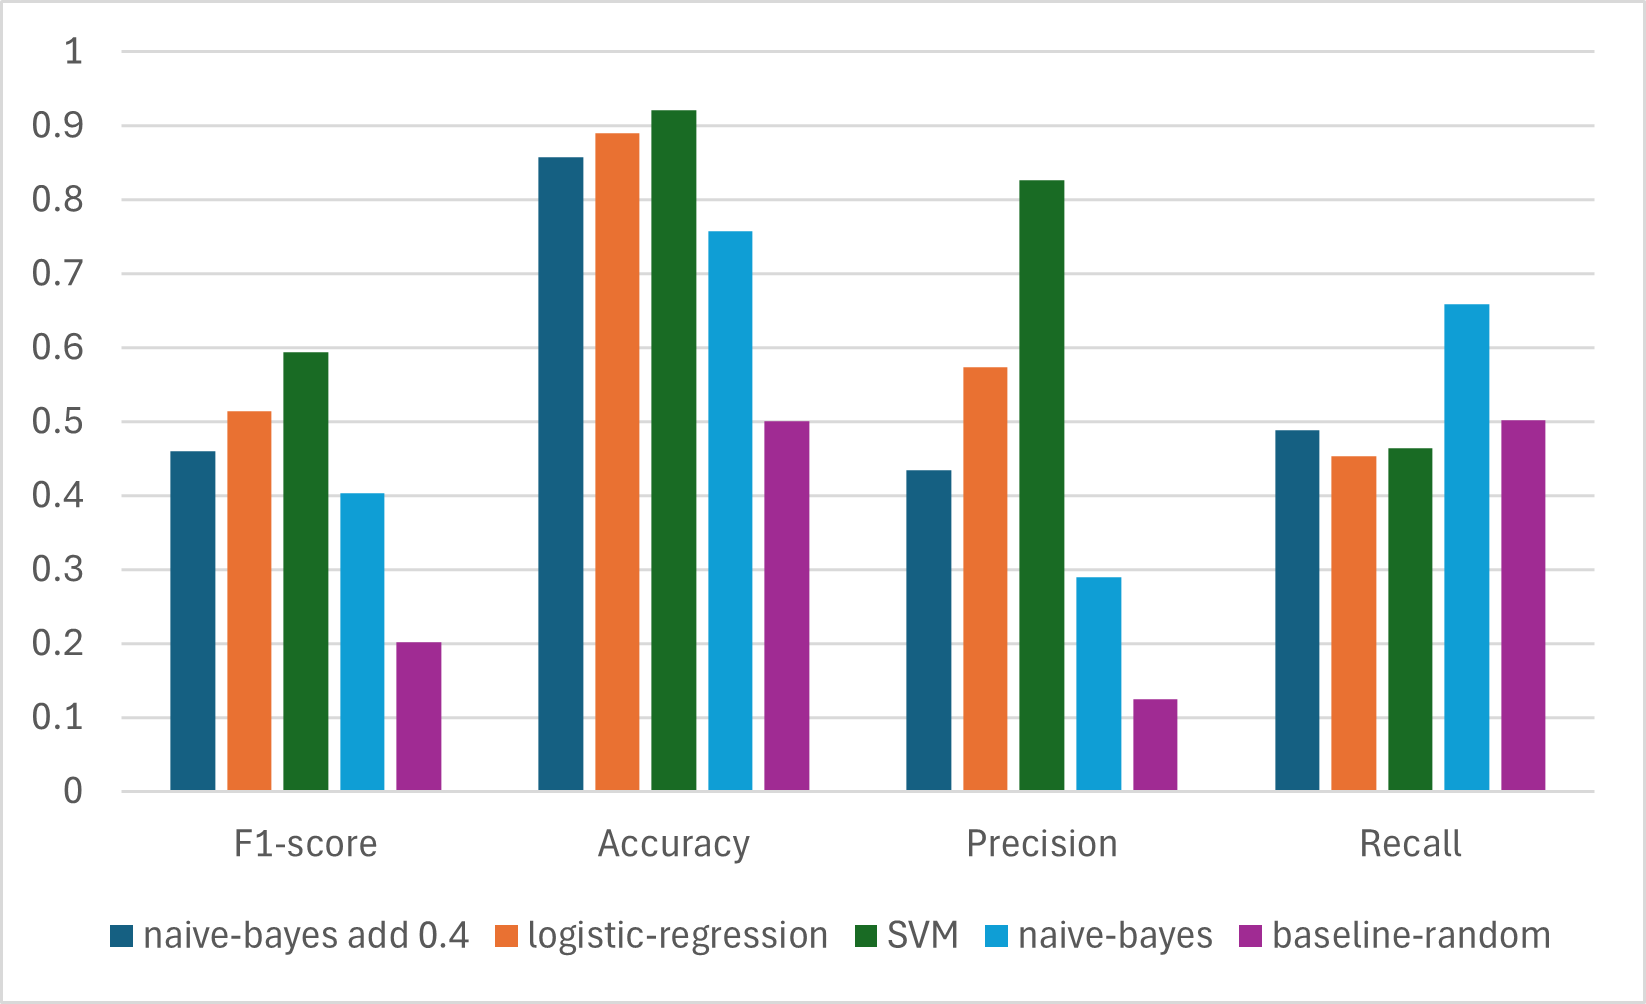
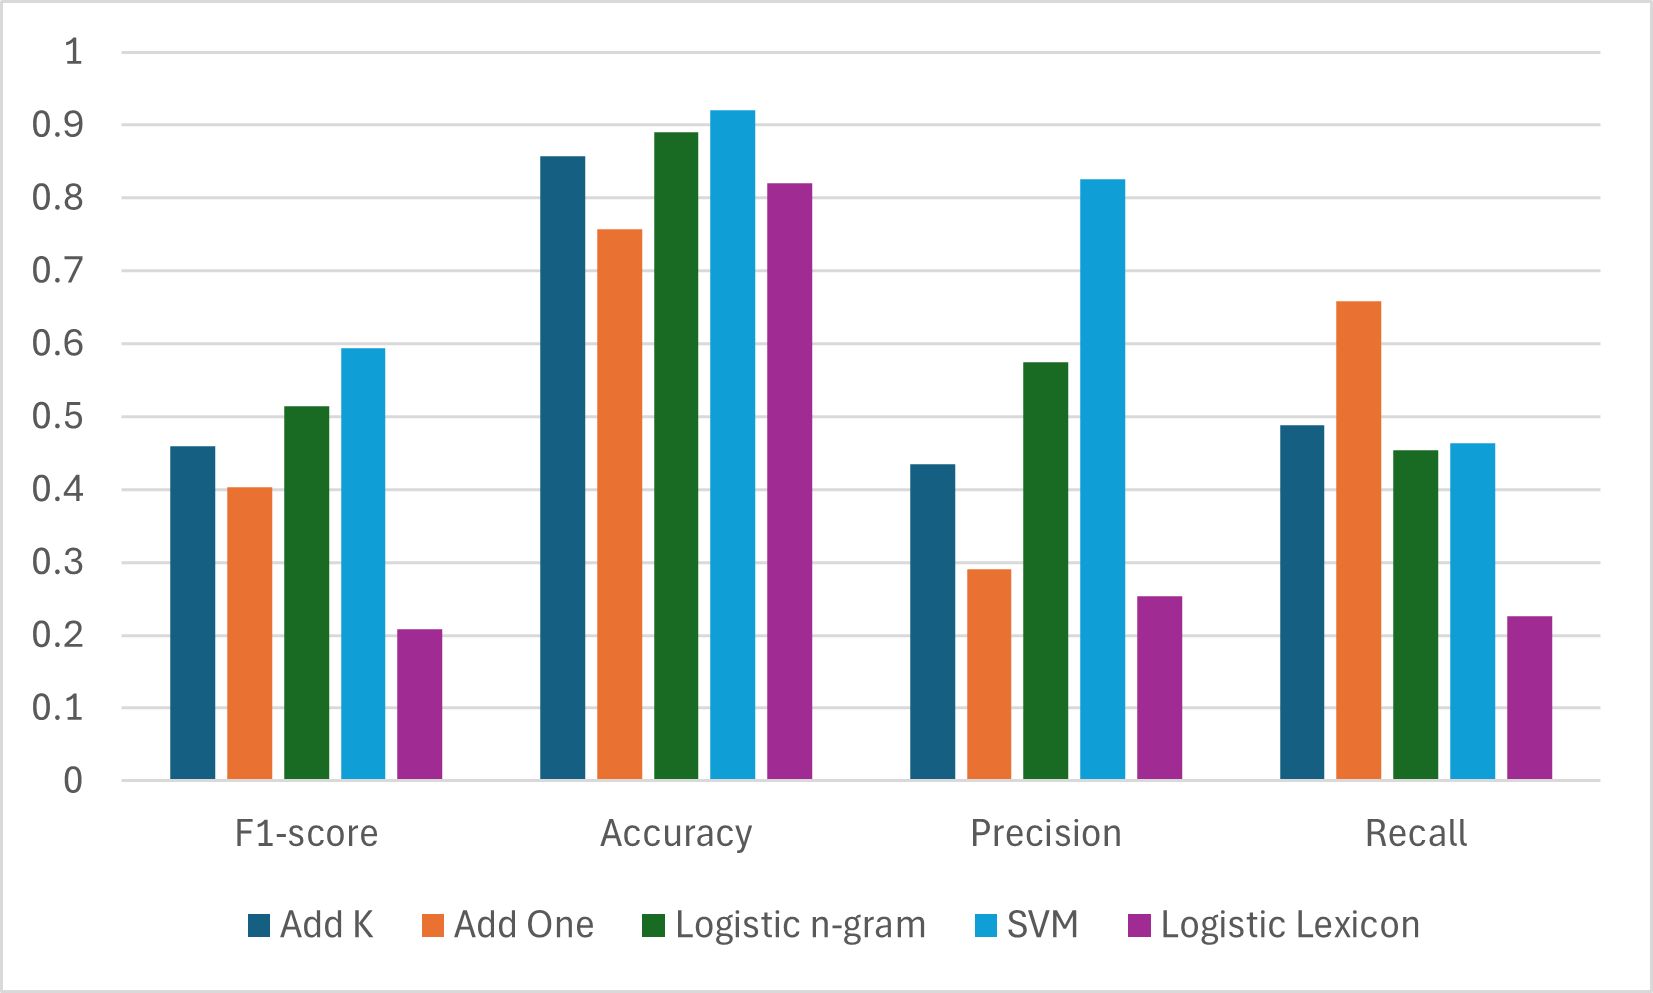
Benchmarking, Insight and Furture Reasearch slides Added

diff --git a/slides/index.html b/slides/index.html
@@ -533,14 +533,19 @@
         </section>
 
         <section>
-          <h2>Benchmarking</h2>
+          <section>
+            <h2>Benchmarking</h2>
 
-          <ul style="list-style: none">
-            <li>Accuracy</li>
-            <li>Precision</li>
-            <li>Recall</li>
-            <li>F1</li>
-          </ul>
+            <ul style="list-style: none">
+              <li>Accuracy</li>
+              <li>Precision</li>
+              <li>Recall</li>
+              <li>F1</li>
+            </ul>
+          </section>
+          <section>
+            <img style="height: 500px" src="./images/BaseLineMajor.png" alt="" />
+          </section>
         </section>
 
         <section data-auto-animate>
@@ -553,7 +558,7 @@
           <section>
             <img
               style="height: 500px"
-              src="./images/F1-score_overall.png"
+              src="./images/Top_10_F1_sanitize.png"
               alt=""
             />
           </section>
@@ -563,23 +568,18 @@
           <h2>Future Research</h2>
 
           <section>
-            <h3>More Features</h3>
-
             <ul>
-              <li>Word Embeddings</li>
-              <li>POS Tagging</li>
-              <li>Dependency Parsing</li>
-            </ul>
-          </section>
+              <li>Build a SVM</li>
+              <li>More Features
+                <ul>
+                  <li>Caps</li>
+                  <li>'!'</li>
+                  <li>': )'</li>
+                </ul>
+              </li>
 
-          <section>
-            <h3>Implement more models</h3>
-
-            <ul>
-              <li>SVM</li>
-              <li>Neural Networks</li>
             </ul>
-          </section>
+          
         </section>
       </div>
     </div>
